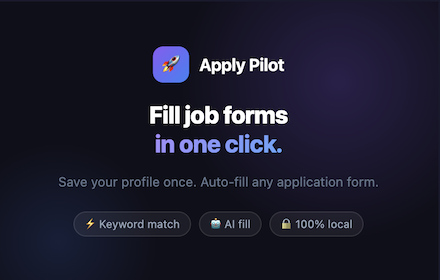
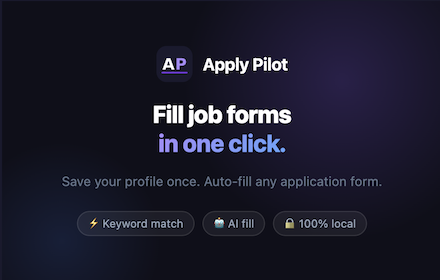
Update promo assets: refresh hero/features tiles and add 1400x560 marquee
Made-with: Cursor

diff --git a/docs/promo/marquee-1400x560.html b/docs/promo/marquee-1400x560.html
@@ -1,0 +1,295 @@
+<!DOCTYPE html>
+<html lang="en">
+<head>
+<meta charset="UTF-8">
+<style>
+  * { margin: 0; padding: 0; box-sizing: border-box; }
+  body {
+    width: 100vw; height: 100vh;
+    background: #111118;
+    display: flex;
+    align-items: center;
+    justify-content: center;
+    font-family: -apple-system, BlinkMacSystemFont, 'Segoe UI', sans-serif;
+  }
+
+  .tile {
+    width: 1400px; height: 560px;
+    background: #0f0f1a;
+    position: relative;
+    overflow: hidden;
+    display: flex;
+    align-items: center;
+    justify-content: space-between;
+    padding: 0 100px;
+    flex-shrink: 0;
+  }
+
+  /* Background elements */
+  .bg-glow-1 {
+    position: absolute;
+    width: 700px; height: 700px;
+    border-radius: 50%;
+    background: radial-gradient(circle, rgba(139,92,246,0.18) 0%, transparent 65%);
+    top: -200px; right: 100px;
+    pointer-events: none;
+  }
+  .bg-glow-2 {
+    position: absolute;
+    width: 400px; height: 400px;
+    border-radius: 50%;
+    background: radial-gradient(circle, rgba(59,130,246,0.12) 0%, transparent 65%);
+    bottom: -150px; left: 50px;
+    pointer-events: none;
+  }
+  .bg-grid {
+    position: absolute;
+    inset: 0;
+    background-image:
+      linear-gradient(rgba(139,92,246,0.035) 1px, transparent 1px),
+      linear-gradient(90deg, rgba(139,92,246,0.035) 1px, transparent 1px);
+    background-size: 60px 60px;
+    pointer-events: none;
+  }
+
+  /* Left content */
+  .left {
+    position: relative;
+    z-index: 1;
+    max-width: 580px;
+  }
+
+  .logo-row {
+    display: flex;
+    align-items: center;
+    gap: 12px;
+    margin-bottom: 32px;
+  }
+  .logo-icon {
+    width: 48px; height: 48px;
+    border-radius: 14px;
+    overflow: hidden;
+  }
+  .logo-icon img {
+    width: 100%; height: 100%;
+    object-fit: cover;
+  }
+  .logo-name {
+    font-size: 22px;
+    font-weight: 700;
+    color: #fff;
+    letter-spacing: -0.3px;
+  }
+  .logo-badge {
+    font-size: 11px;
+    padding: 3px 10px;
+    border-radius: 100px;
+    background: rgba(139,92,246,0.15);
+    border: 1px solid rgba(139,92,246,0.35);
+    color: #c4b5fd;
+    font-weight: 500;
+  }
+
+  h1 {
+    font-size: 58px;
+    font-weight: 800;
+    line-height: 1.1;
+    letter-spacing: -1.5px;
+    margin-bottom: 20px;
+    color: #fff;
+  }
+  h1 .grad {
+    background: linear-gradient(135deg, #a78bfa 0%, #60a5fa 100%);
+    -webkit-background-clip: text;
+    -webkit-text-fill-color: transparent;
+  }
+
+  .sub {
+    font-size: 18px;
+    color: #64748b;
+    line-height: 1.6;
+    margin-bottom: 36px;
+    max-width: 480px;
+  }
+
+  .pills {
+    display: flex;
+    gap: 10px;
+    flex-wrap: wrap;
+  }
+  .pill {
+    display: flex;
+    align-items: center;
+    gap: 7px;
+    font-size: 13px;
+    padding: 7px 16px;
+    border-radius: 100px;
+    background: rgba(255,255,255,0.05);
+    border: 1px solid rgba(255,255,255,0.1);
+    color: #94a3b8;
+  }
+
+  /* Right: stacked form cards */
+  .right {
+    position: relative;
+    z-index: 1;
+    width: 520px;
+    height: 400px;
+    flex-shrink: 0;
+  }
+
+  .card {
+    position: absolute;
+    background: rgba(255,255,255,0.04);
+    border: 1px solid rgba(255,255,255,0.1);
+    border-radius: 16px;
+    padding: 24px 28px;
+    backdrop-filter: blur(10px);
+  }
+
+  .card-main {
+    width: 460px;
+    top: 20px; left: 0;
+    border-color: rgba(139,92,246,0.25);
+    background: rgba(139,92,246,0.04);
+  }
+
+  .card-header {
+    display: flex;
+    align-items: center;
+    justify-content: space-between;
+    margin-bottom: 20px;
+  }
+  .card-title { font-size: 14px; font-weight: 600; color: #e2e8f0; }
+  .card-sub { font-size: 12px; color: #475569; }
+  .scan-btn {
+    font-size: 12px;
+    padding: 6px 14px;
+    border-radius: 8px;
+    background: linear-gradient(135deg, #8b5cf6, #6d28d9);
+    color: #fff;
+    font-weight: 600;
+    border: none;
+  }
+
+  .form-field {
+    display: flex;
+    align-items: center;
+    justify-content: space-between;
+    padding: 9px 12px;
+    border-radius: 8px;
+    margin-bottom: 8px;
+    font-size: 13px;
+  }
+  .form-field.filled {
+    background: rgba(34,197,94,0.08);
+    border: 1px solid rgba(34,197,94,0.2);
+  }
+  .form-field.matched {
+    background: rgba(59,130,246,0.08);
+    border: 1px solid rgba(59,130,246,0.2);
+  }
+  .form-field.unmatched {
+    background: rgba(234,179,8,0.05);
+    border: 1px solid rgba(234,179,8,0.15);
+  }
+  .field-name { color: #94a3b8; }
+  .field-value { color: #e2e8f0; font-size: 12px; }
+  .field-tag {
+    font-size: 10px;
+    font-weight: 700;
+    padding: 2px 8px;
+    border-radius: 100px;
+  }
+  .tag-green { background: rgba(34,197,94,0.15); color: #22c55e; }
+  .tag-blue  { background: rgba(59,130,246,0.15); color: #60a5fa; }
+  .tag-yellow{ background: rgba(234,179,8,0.15);  color: #eab308; }
+
+  .action-bar {
+    margin-top: 14px;
+    display: flex;
+    gap: 8px;
+  }
+  .ab-btn {
+    font-size: 11px;
+    padding: 6px 12px;
+    border-radius: 7px;
+    font-weight: 600;
+    border: none;
+    cursor: pointer;
+  }
+  .ab-primary { background: linear-gradient(135deg, #8b5cf6, #6d28d9); color: #fff; }
+  .ab-secondary { background: rgba(255,255,255,0.07); color: #94a3b8; border: 1px solid rgba(255,255,255,0.08); }
+</style>
+</head>
+<body>
+  <div class="tile">
+    <div class="bg-grid"></div>
+    <div class="bg-glow-1"></div>
+    <div class="bg-glow-2"></div>
+
+    <!-- Left -->
+    <div class="left">
+      <div class="logo-row">
+        <div class="logo-icon"><img src="../../src/icons/icon128.png" alt="Apply Pilot"></div>
+        <div class="logo-name">Apply Pilot</div>
+        <div class="logo-badge">Chrome Extension</div>
+      </div>
+      <h1>Stop retyping.<br>Start <span class="grad">applying.</span></h1>
+      <p class="sub">Save your profile once. Apply Pilot fills any job application form in one click — with AI, auto-learning, and full privacy.</p>
+      <div class="pills">
+        <div class="pill">⚡ Instant keyword fill</div>
+        <div class="pill">🤖 AI semantic match</div>
+        <div class="pill">🔒 100% local data</div>
+        <div class="pill">🌍 EN · DE · 中文</div>
+      </div>
+    </div>
+
+    <!-- Right: mock form -->
+    <div class="right">
+      <div class="card card-main">
+        <div class="card-header">
+          <div>
+            <div class="card-title">Software Engineer — Application</div>
+            <div class="card-sub">Berlin · Full-time</div>
+          </div>
+          <button class="scan-btn">✦ Scan & Fill</button>
+        </div>
+
+        <div class="form-field filled">
+          <span class="field-name">Full Name</span>
+          <span class="field-value">Jane Wu</span>
+          <span class="field-tag tag-green">✓ filled</span>
+        </div>
+        <div class="form-field filled">
+          <span class="field-name">Email</span>
+          <span class="field-value">jane@example.com</span>
+          <span class="field-tag tag-green">✓ filled</span>
+        </div>
+        <div class="form-field matched">
+          <span class="field-name">Years of Experience</span>
+          <span class="field-value">5 years</span>
+          <span class="field-tag tag-blue">→ matched</span>
+        </div>
+        <div class="form-field matched">
+          <span class="field-name">LinkedIn</span>
+          <span class="field-value">linkedin.com/in/jane</span>
+          <span class="field-tag tag-blue">→ matched</span>
+        </div>
+        <div class="form-field unmatched">
+          <span class="field-name">Cover Letter</span>
+          <span class="field-value" style="color:#475569">Type here...</span>
+          <span class="field-tag tag-yellow">? manual</span>
+        </div>
+
+        <div class="action-bar">
+          <button class="ab-btn ab-primary">Fill High-Confidence</button>
+          <button class="ab-btn ab-secondary">Fill All</button>
+          <button class="ab-btn ab-secondary">Save to Presets</button>
+        </div>
+      </div>
+    </div>
+
+  </div>
+</body>
+</html>

diff --git a/docs/promo/promo-tile-440x280.html b/docs/promo/promo-tile-440x280.html
@@ -56,11 +56,10 @@
   }
   .logo-icon {
     width: 36px; height: 36px;
-    background: linear-gradient(135deg, #8b5cf6, #3b82f6);
     border-radius: 10px;
-    display: flex; align-items: center; justify-content: center;
-    font-size: 18px;
+    overflow: hidden;
   }
+  .logo-icon img { width: 100%; height: 100%; object-fit: cover; }
   .logo-name {
     font-size: 17px;
     font-weight: 700;
@@ -110,7 +109,7 @@
 
   <div class="inner">
     <div class="logo-row">
-      <div class="logo-icon">🚀</div>
+      <div class="logo-icon"><img src="../../src/icons/icon128.png" alt="Apply Pilot"></div>
       <div class="logo-name">Apply Pilot</div>
     </div>
     <div class="tagline">Fill job forms<br><span class="grad">in one click.</span></div>

diff --git a/docs/promo/banner-1-hero.html b/docs/promo/banner-1-hero.html
@@ -200,11 +200,10 @@
   }
   .logo-icon {
     width: 44px; height: 44px;
-    background: linear-gradient(135deg, #8b5cf6, #3b82f6);
     border-radius: 12px;
-    display: flex; align-items: center; justify-content: center;
-    font-size: 22px;
+    overflow: hidden;
   }
+  .logo-icon img { width: 100%; height: 100%; object-fit: cover; }
   .logo-text { font-size: 18px; font-weight: 700; color: #fff; }
 </style>
 </head>
@@ -213,7 +212,7 @@
   <div class="bg-glow2"></div>
 
   <div class="logo-area">
-    <div class="logo-icon">🚀</div>
+    <div class="logo-icon"><img src="../../src/icons/icon128.png" alt="Apply Pilot"></div>
     <div class="logo-text">Apply Pilot</div>
   </div>
 
